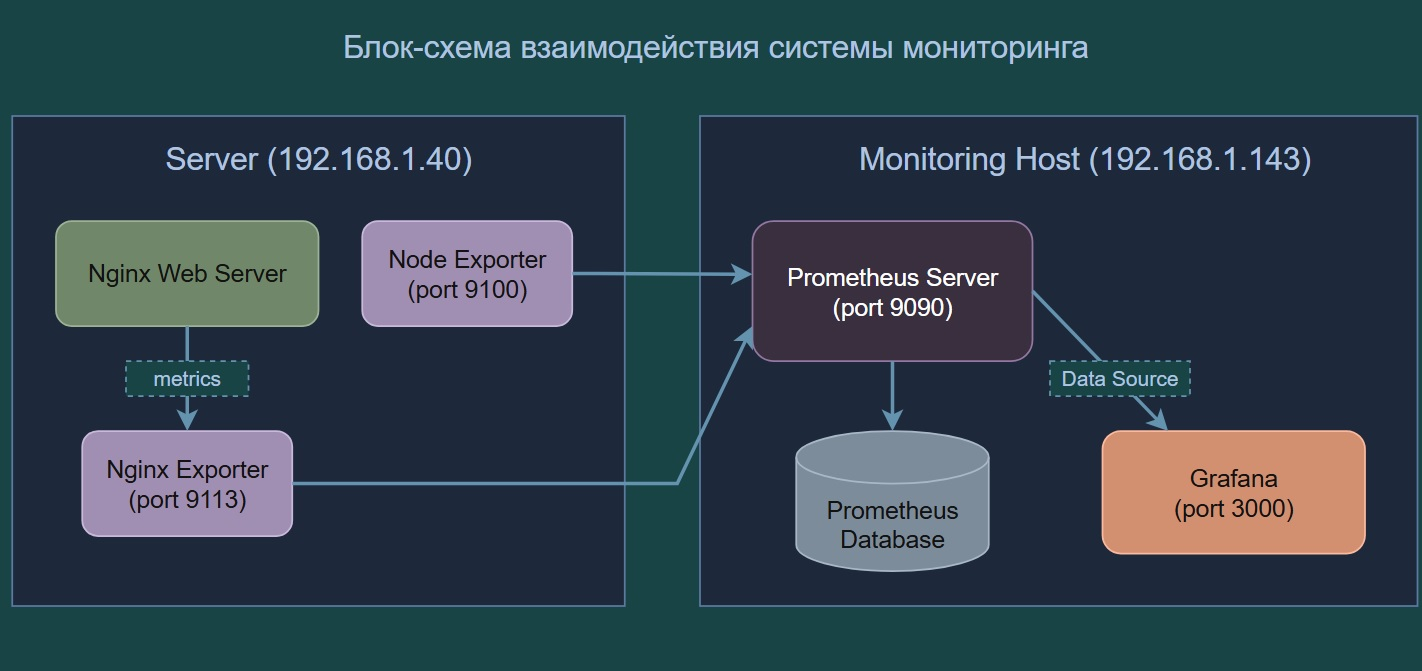
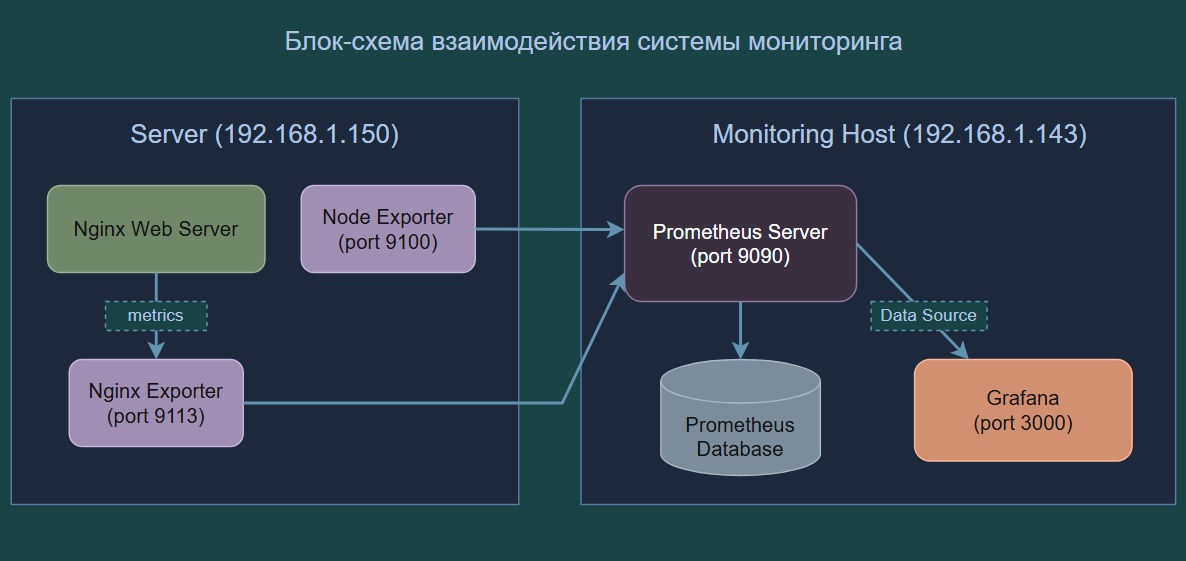
Change ip

diff --git a/test_task.md b/test_task.md
@@ -331,7 +331,7 @@ net.ipv4.tcp_syncookies = 1 # Защита от SYN-флуд атак
 
 ## 4. Установка и настройка системы мониторинга
 Для реализации системы мониторинга будут использоваться следующие компоненты:  
-**На удалённом сервере (192.168.1.40):**  
+**На удалённом сервере (192.168.1.150):**  
 - nginx-prometheus-exporter_1.5.1_linux_amd64
 - prometheus-node_exporter-1.10.2-2.red80.x86_64  
 
@@ -437,11 +437,11 @@ global:
 scrape_configs:
   - job_name: 'node' # Метрики сервера
     static_configs:
-      - targets: ['192.168.1.40:9100'] # Адрес сервера с Node Exporter
+      - targets: ['192.168.1.150:9100'] # Адрес сервера с Node Exporter
 
   - job_name: 'nginx' # Метрики Nginx
     static_configs:
-      - targets: ['192.168.1.40:9113'] # Адрес сервера с Nginx Exporter
+      - targets: ['192.168.1.150:9113'] # Адрес сервера с Nginx Exporter
 ```
 Перезагружаем конфигурацию Prometheus командой ```sudo systemctl reload prometheus```.  
 Проверяем статус таргетов в браузере хоста для мониторинга на странице **http://192.168.1.143:9090/targets**. Статус должен быть в состоянии **UP**.  
